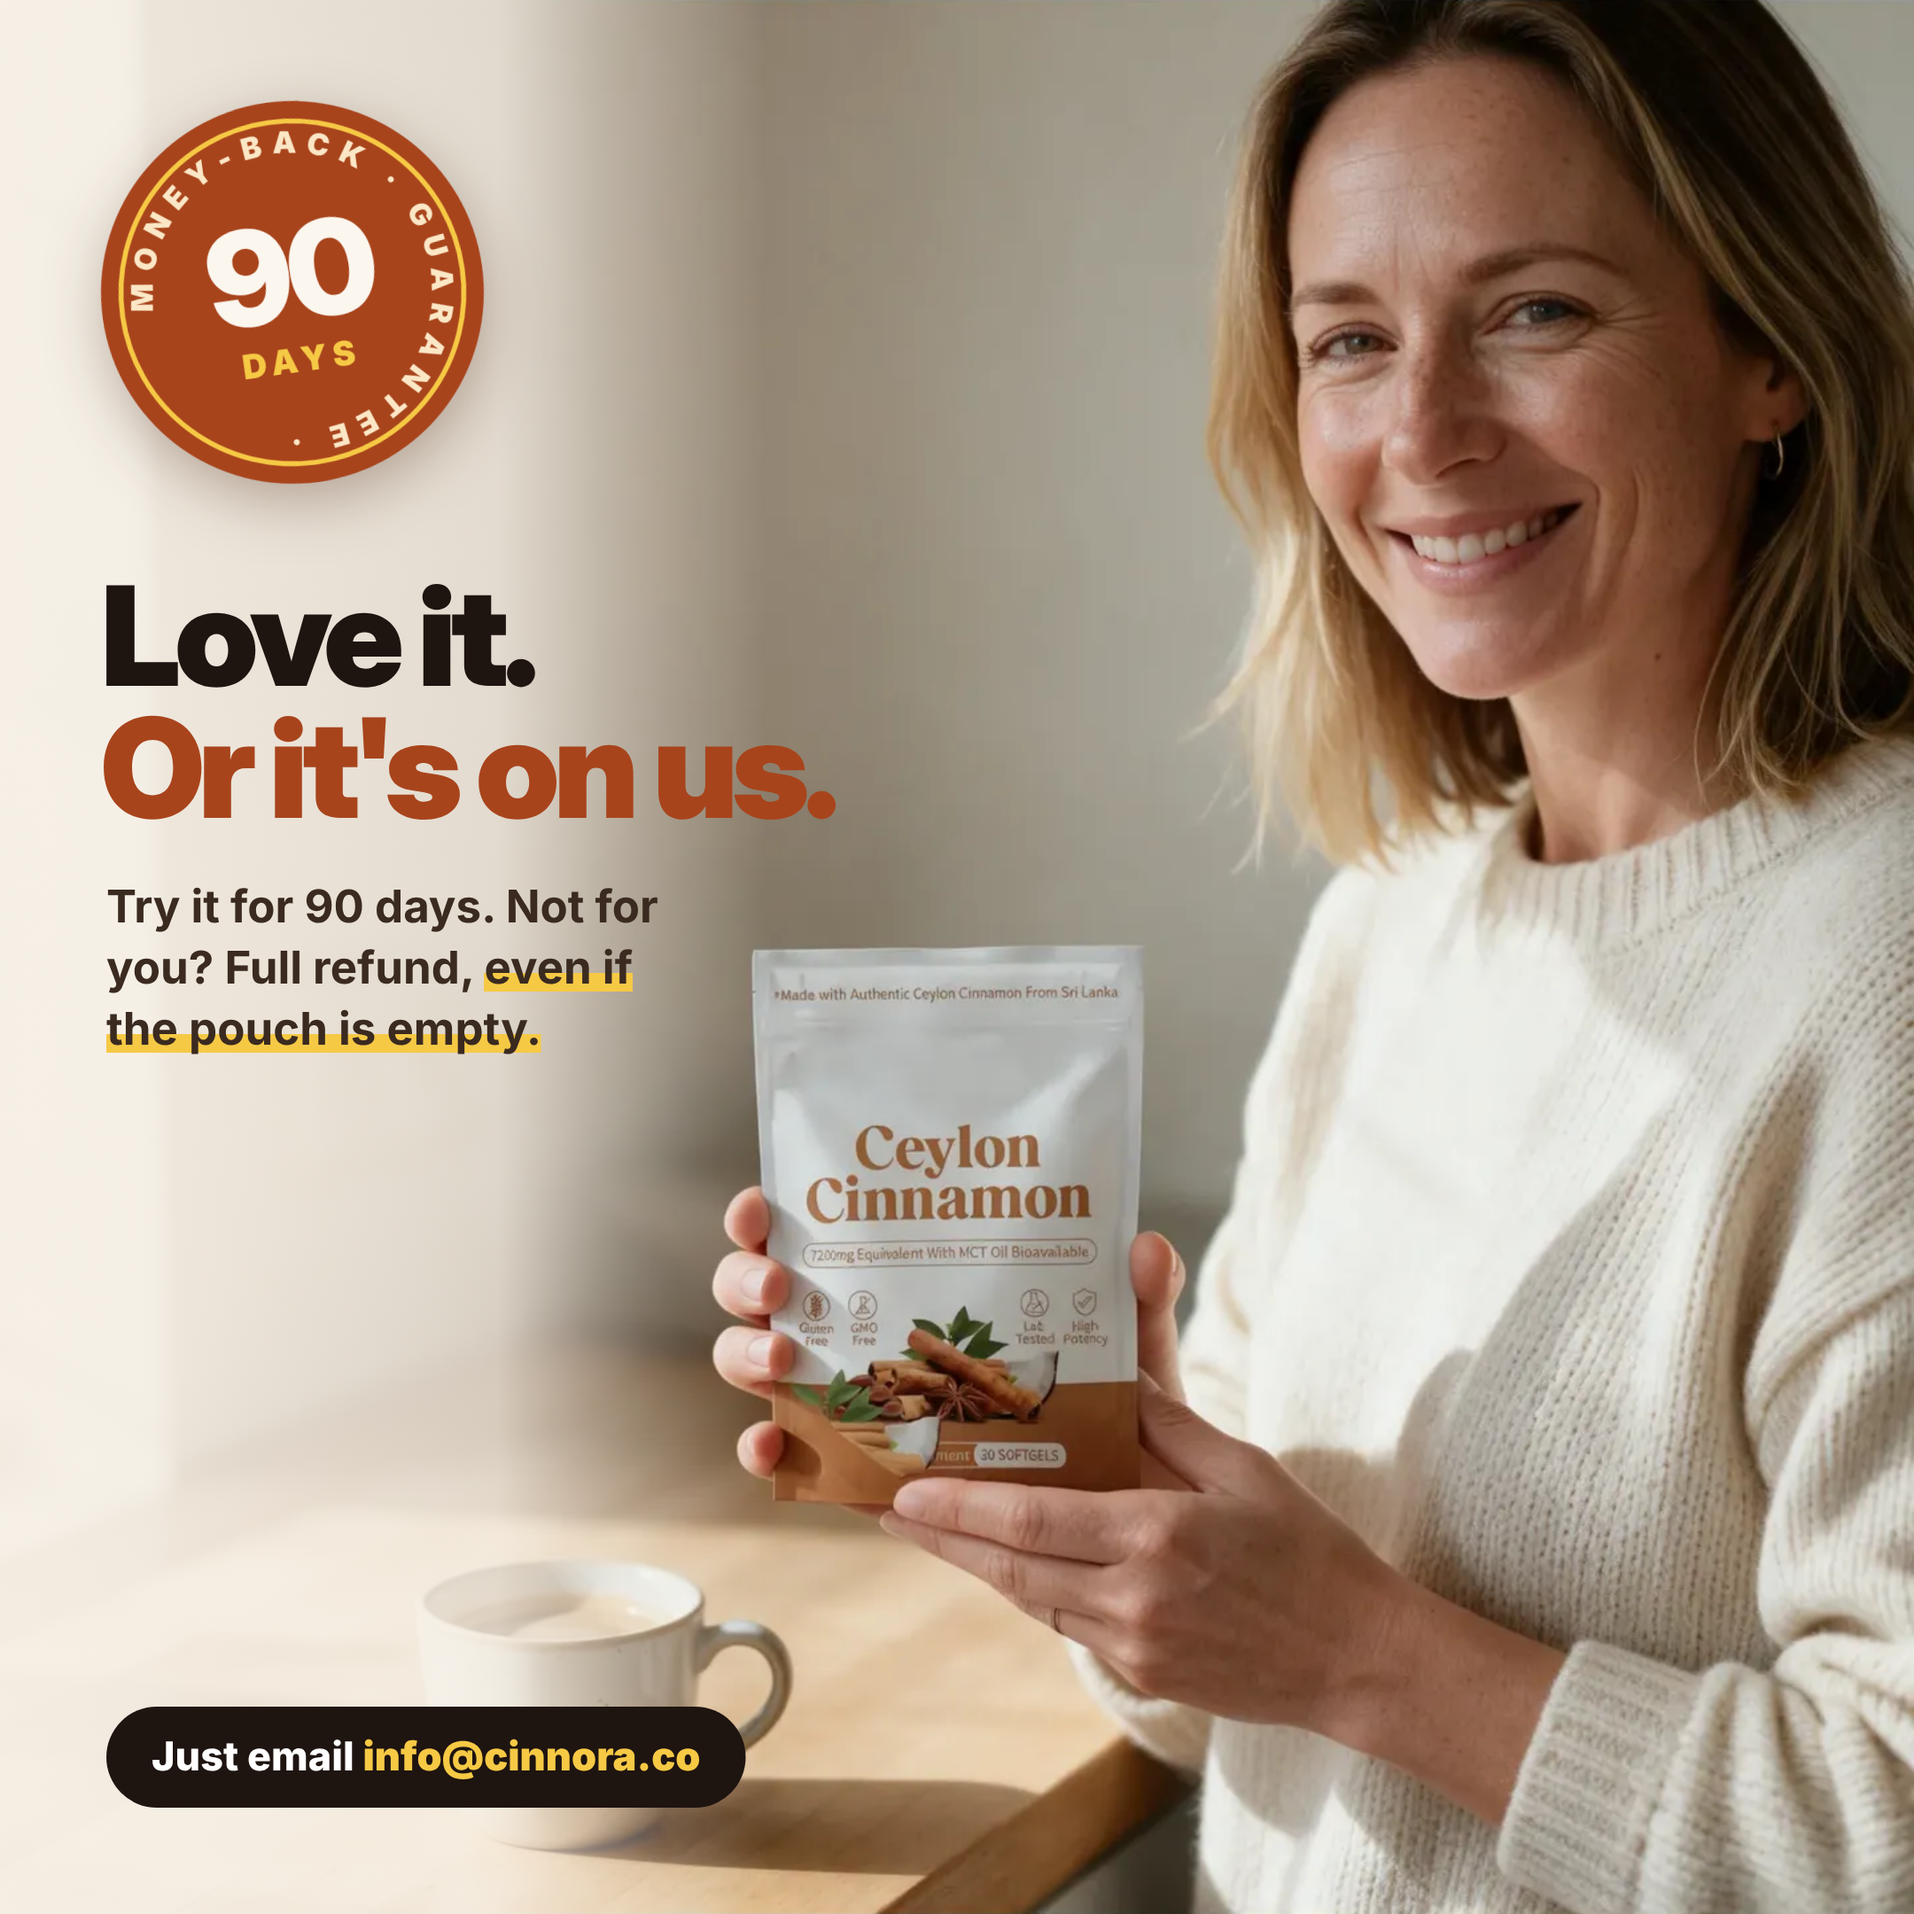
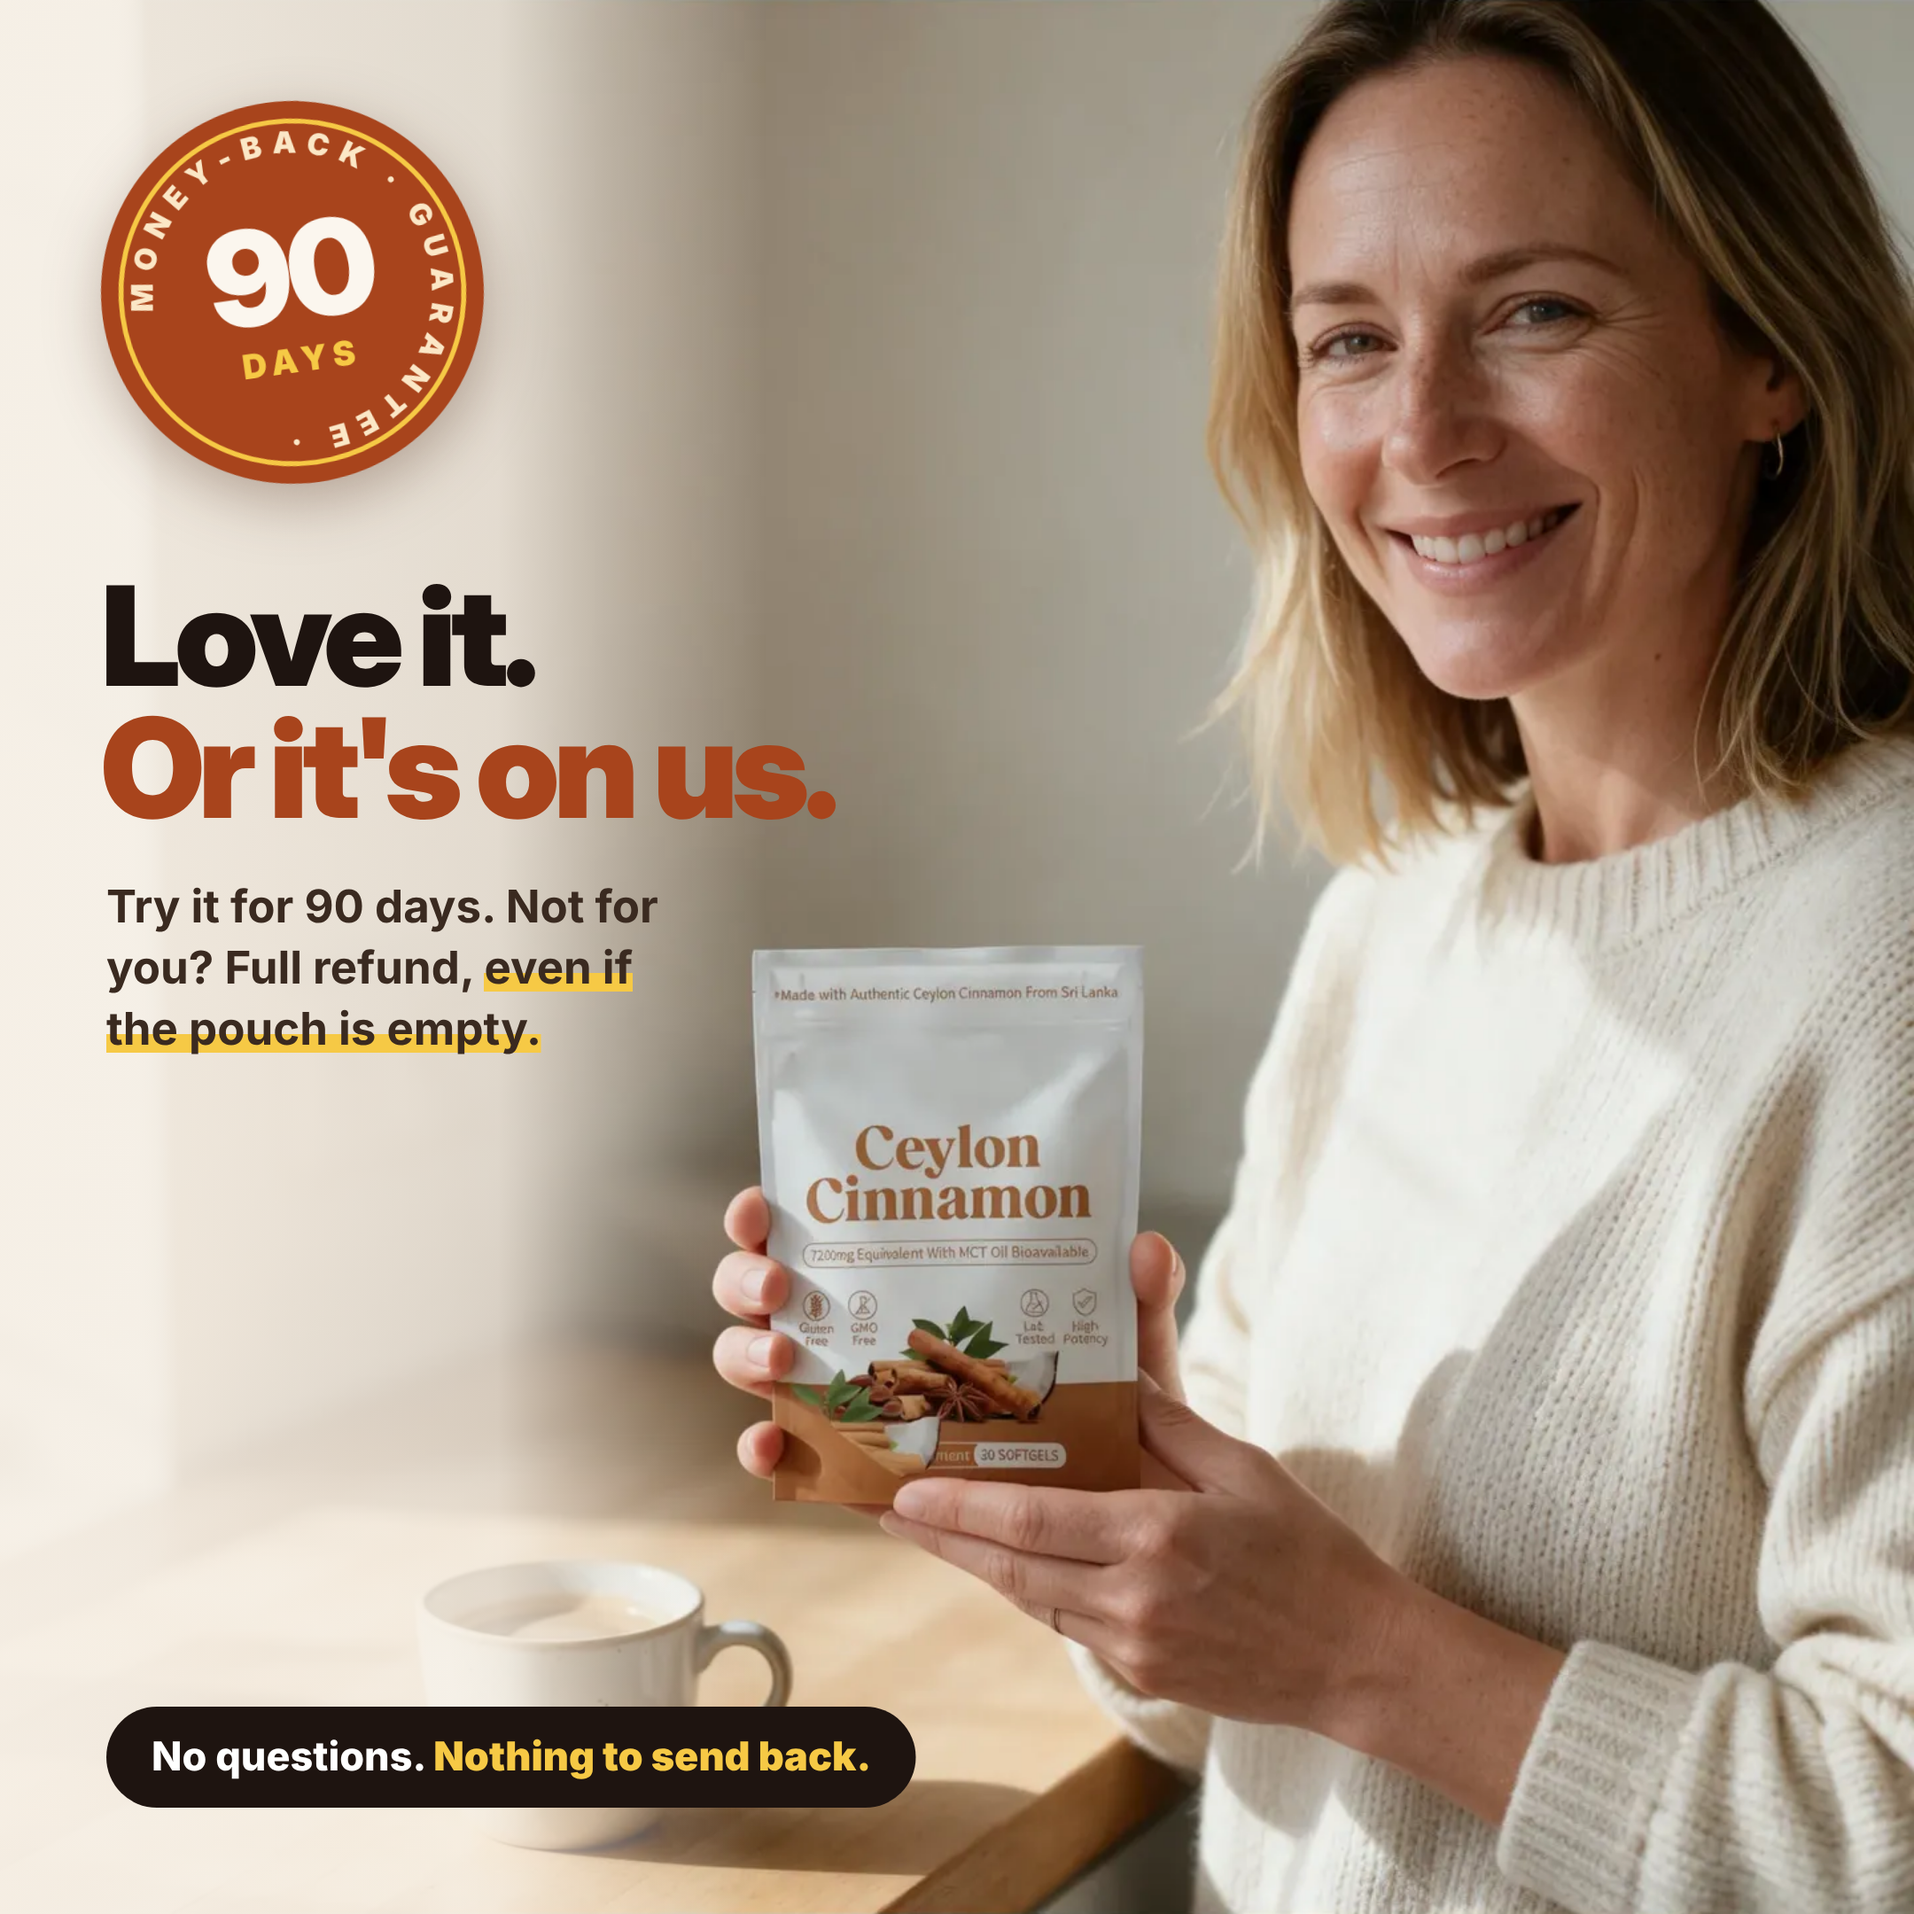
Cinnora: remove email from promise image
Claude-Session: https://claude.ai/code/session_01WXdKv4Lmy6DFabBeRvSUZr

Changed region(s): [[0.062, 0.8685, 0.4963, 0.9616]]

diff --git a/ceylon-cinnamon/hero/promise4.html b/ceylon-cinnamon/hero/promise4.html
@@ -20,5 +20,5 @@
 <text x="100" y="140" text-anchor="middle" font-family="Inter" font-weight="900" font-size="17" fill="#F6C945" letter-spacing="3">DAYS</text></svg>
 <div class="h">Love it.<b>Or it's on us.</b></div>
 <div class="p">Try it for 90 days. Not for you? Full refund, <u>even if the pouch is empty.</u></div>
-<div class="how">Just email <b>info@cinnora.co</b></div>
+<div class="how">No questions. <b>Nothing to send back.</b></div>
 </div></body></html>

diff --git a/ceylon-cinnamon/CLAUDE.md b/ceylon-cinnamon/CLAUDE.md
@@ -263,3 +263,4 @@ n/v = not publicly verifiable from the pages fetched. Berberine-first brands whe
 - Nov 18: promise v3 (founder: more creative): 90-day softgel calendar (90 softgel pills, 58 taken, rest dashed), day 90 circled with Caveat note "Day 90 and not for you? Full refund. Even if empty.", dark band "Love it, or it's on us." + how to claim + fine print. hero/promise3.html -> cn-promise-v3.png.
 - Nov 18: founder rejected calendar promise; chose "real photo + seal". Seedream: ~43 y/o blonde woman in cream sweater holding NEW pouch in kitchen (job 8a5d14c6, Files cn-promise-photo-a.png; alt 49b36cff laughing brunette cn-promise-photo-b). Layer hero/promise4.html -> cn-promise-v4.png: 90-DAYS money-back seal, "Love it. Or it's on us.", refund line, "Just email info@cinnora.co".
 - Nov 18: founder: hero too busy -> v6 simplified (hero/hero6.html -> cn-hero-real-v6.png): headline, black 90-day seal, 3 chips (True Ceylon, gluten-free, non-GMO), no benefits band. New before/after with 45 y/o woman (same woman, Seedream bda4e9aa before tired after lunch -> f3a80a2f after bright with tea; Files cn-ba-before/after.png): hero/ba.html -> cn-before-after-45.png, Before (heavy after meals, 3pm slump, reaching for sweets) vs After with 1 a day (lighter after meals*, steadier energy*, healthy blood sugar support*), FDA + results vary + models shown. Neither uploaded yet.
+- Nov 18: FOUNDER RULE: never put the company email on images. Promise v4 pill now "No questions. Nothing to send back."
